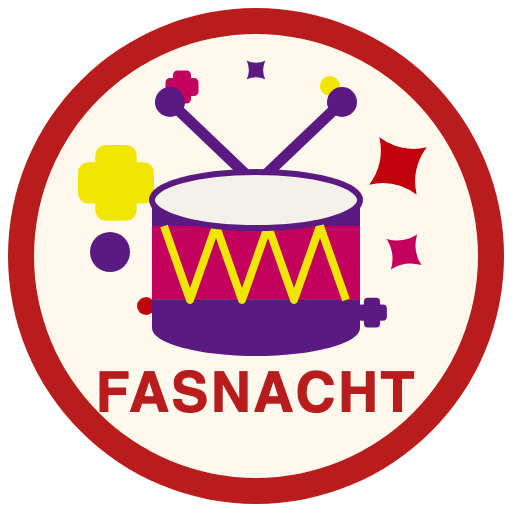
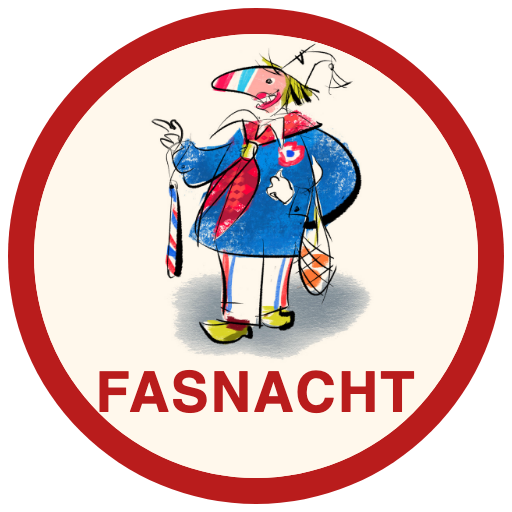
feat(website): Fasnachtslogo mit Waggis-Skizze von baslerfasnacht.info
Nutzung fuer den Verein laut Stefan erlaubt; Herkunft in
images/anlaesse/README.md festgehalten.

Changed region(s): [[0.125, 0.0625, 0.8438, 0.7188], [0.75, 0.4375, 0.8438, 0.5312]]

diff --git a/docker/frontend-website/images/anlaesse/README.md b/docker/frontend-website/images/anlaesse/README.md
@@ -1,0 +1,14 @@
+# Logos der wiederkehrenden Anlaesse
+
+Werden von api-events (`src/anlass-logo.js`) per Titel zugeordnet und in
+App, Website und E-Mails gezeigt. Format: 512x512 PNG, runder Ring in
+Vereinsrot #B91C1C, heller Grund, Name unten.
+
+| Datei | Motiv | Herkunft |
+|---|---|---|
+| fasnacht.png | Waggis-Skizze | Zeichnung von baslerfasnacht.info (`/fancybox/img/basler-fasnacht-waggis.jpg`), Nutzung fuer den Verein laut Stefan Mueller erlaubt (13.10.2026) |
+| chilbi.png/.svg | Riesenrad | eigene Zeichnung (Platzhalter) |
+| preisjassen.png/.svg | Jasskarten | eigene Zeichnung (Platzhalter) |
+| weihnachtshock.png/.svg | Tannenbaum | eigene Zeichnung (Platzhalter) |
+
+Ersetzen: gleiche Datei, gleiche Groesse - App und Website ziehen nach.
